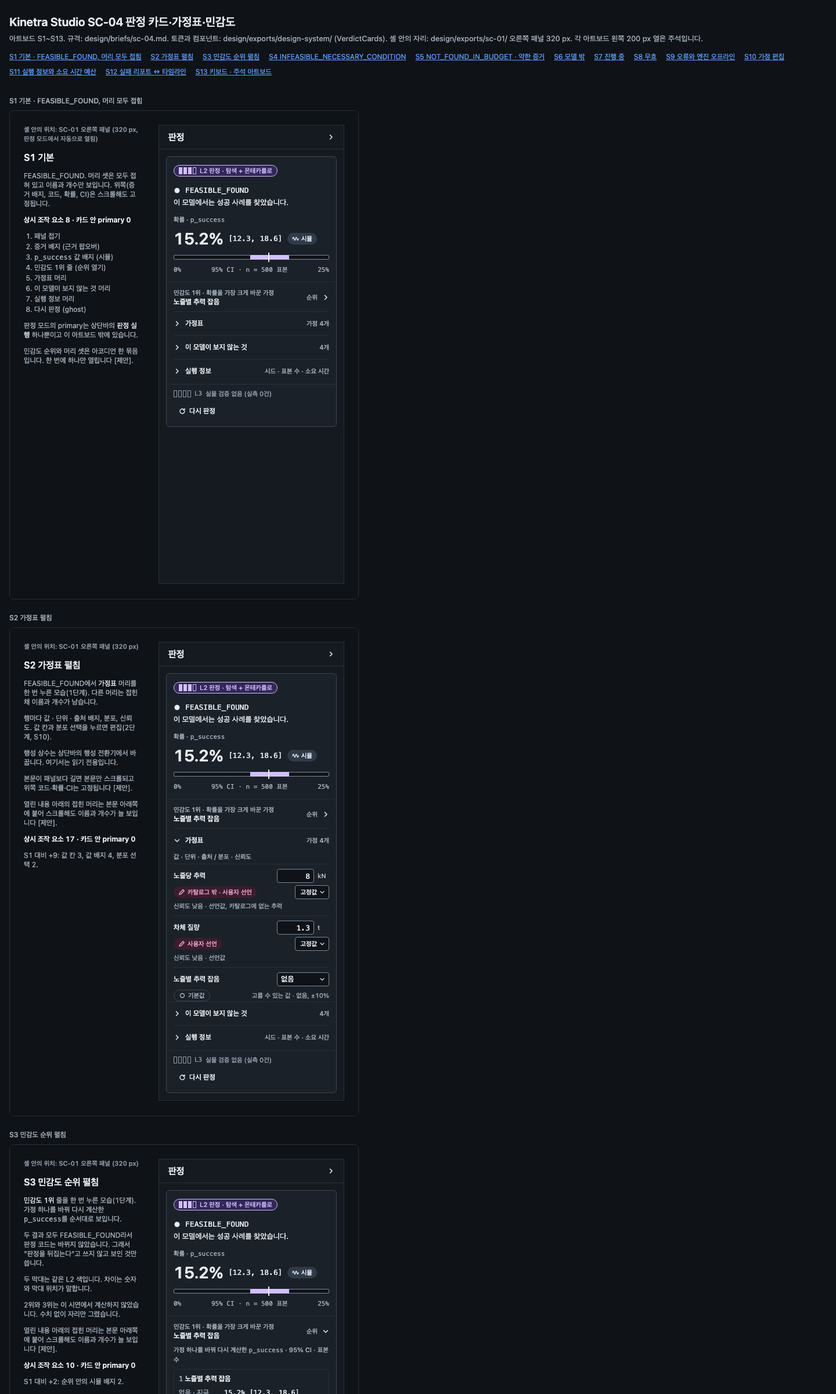
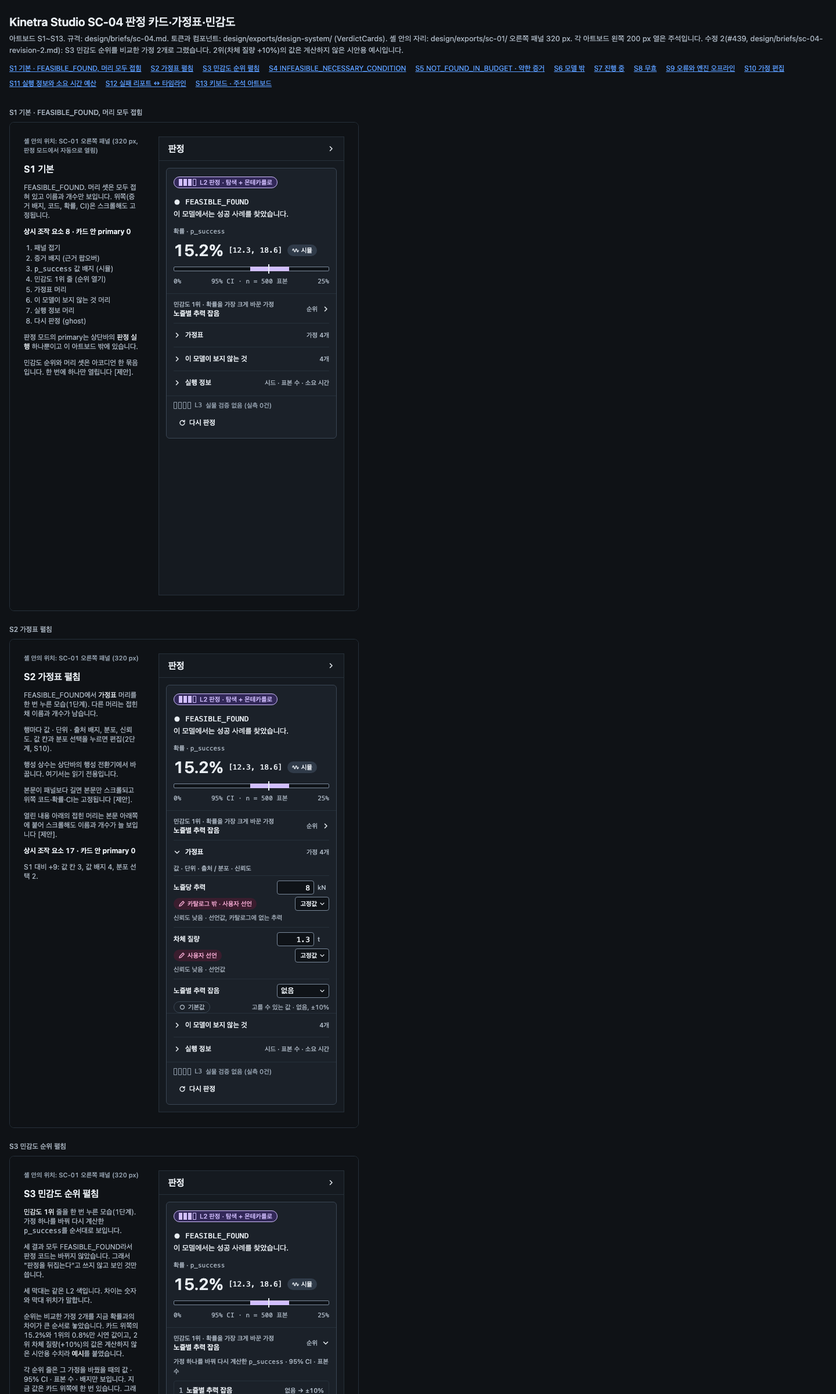
[D0-03d] SC-04 수정 2회 디자인 반영

diff --git a/design/exports/sc-04/index.html b/design/exports/sc-04/index.html
@@ -26,7 +26,7 @@ a{color:#5B9DFF}a:hover{color:#A8CBFF}
 <body>
 <header class="kin-top">
 <h1>Kinetra Studio SC-04 판정 카드·가정표·민감도</h1>
-<p>아트보드 S1~S13. 규격: design/briefs/sc-04.md. 토큰과 컴포넌트: design/exports/design-system/ (VerdictCards). 셸 안의 자리: design/exports/sc-01/ 오른쪽 패널 320 px. 각 아트보드 왼쪽 200 px 열은 주석입니다.</p>
+<p>아트보드 S1~S13. 규격: design/briefs/sc-04.md. 토큰과 컴포넌트: design/exports/design-system/ (VerdictCards). 셸 안의 자리: design/exports/sc-01/ 오른쪽 패널 320 px. 각 아트보드 왼쪽 200 px 열은 주석입니다. 수정 2(#439, design/briefs/sc-04-revision-2.md): S3 민감도 순위를 비교한 가정 2개로 그렸습니다. 2위(차체 질량 +10%)의 값은 계산하지 않은 시안용 예시입니다.</p>
 <nav class="kin-nav" aria-label="아트보드 목차"><a href="#main">S1 기본 · FEASIBLE_FOUND, 머리 모두 접힘</a><a href="#s2">S2 가정표 펼침</a><a href="#s3">S3 민감도 순위 펼침</a><a href="#s4">S4 INFEASIBLE_NECESSARY_CONDITION</a><a href="#s5">S5 NOT_FOUND_IN_BUDGET · 약한 증거</a><a href="#s6">S6 모델 밖</a><a href="#s7">S7 진행 중</a><a href="#s8">S8 무효</a><a href="#s9">S9 오류와 엔진 오프라인</a><a href="#s10">S10 가정 편집</a><a href="#s11">S11 실행 정보와 소요 시간 예산</a><a href="#s12">S12 실패 리포트 ↔ 타임라인</a><a href="#s13">S13 키보드 · 주석 아트보드</a></nav>
 </header>
 <main><section class="kin-board" id="main" aria-label="S1 기본 · FEASIBLE_FOUND, 머리 모두 접힘"><h2 class="kin-board-title">S1 기본 · FEASIBLE_FOUND, 머리 모두 접힘</h2><div class="kin-board-scroll" tabindex="0" role="group" aria-label="S1 기본 · FEASIBLE_FOUND, 머리 모두 접힘 아트보드"><div data-board="Main.dc.html" style="width:600px;height:840px;box-sizing:border-box;padding:24px;background:#0F1216;color:#E8EDF2;font-family:Pretendard,'Pretendard Variable',-apple-system,BlinkMacSystemFont,'Apple SD Gothic Neo','Malgun Gothic','Noto Sans KR',sans-serif;font-size:13px;line-height:20px;font-variant-numeric:tabular-nums;display:flex;gap:32px">
@@ -167,12 +167,13 @@ a{color:#5B9DFF}a:hover{color:#A8CBFF}
 <div style="font-size:11px;font-weight:500;color:#93A0AE">셸 안의 위치: SC-01 오른쪽 패널 (320 px)</div>
 <div style="font-size:16px;line-height:24px;font-weight:600;color:#E8EDF2">S3 민감도 순위 펼침</div>
 <div><span style="color:#E8EDF2">민감도 1위</span> 줄을 한 번 누른 모습(1단계). 가정 하나를 바꿔 다시 계산한 <span style="font-family:'JetBrains Mono',ui-monospace,SFMono-Regular,Menlo,monospace">p_success</span>를 순서대로 보입니다.</div>
-<div>두 결과 모두 FEASIBLE_FOUND라서 판정 코드는 바뀌지 않았습니다. 그래서 "판정을 뒤집는다"고 쓰지 않고 보인 것만 씁니다.</div>
-<div>두 막대는 같은 L2 색입니다. 차이는 숫자와 막대 위치가 말합니다.</div>
-<div>2위와 3위는 이 시연에서 계산하지 않았습니다. 수치 없이 자리만 그렸습니다.</div>
+<div>세 결과 모두 FEASIBLE_FOUND라서 판정 코드는 바뀌지 않았습니다. 그래서 "판정을 뒤집는다"고 쓰지 않고 보인 것만 씁니다.</div>
+<div>세 막대는 같은 L2 색입니다. 차이는 숫자와 막대 위치가 말합니다.</div>
+<div>순위는 비교한 가정 2개를 지금 확률과의 차이가 큰 순서로 놓았습니다. 카드 위쪽의 15.2%와 1위의 0.8%만 시연 값이고, 2위 차체 질량(+10%)의 값은 계산하지 않은 시안용 수치라 <span style="color:#E8EDF2">예시</span>를 붙였습니다.</div>
+<div>각 순위 줄은 그 가정을 바꿨을 때의 값 · 95% CI · 표본 수 · 배지만 보입니다. 지금 값은 카드 위쪽에 한 번 있습니다. 그래서 두 순위가 접힌 머리 위에 함께 보입니다.</div>
 <div>열린 내용 아래의 접힌 머리는 본문 아래쪽에 붙어 스크롤해도 이름과 개수가 늘 보입니다 [제안].</div>
 <div style="color:#E8EDF2;font-weight:600">상시 조작 요소 10 · 카드 안 primary 0</div>
-<div>S1 대비 +2: 순위 안의 시뮬 배지 2.</div>
+<div>S1 대비 +2: 순위 안의 시뮬 배지 2 (1위, 2위).</div>
 </div>
 
 <aside data-screen="1" aria-label="판정" style="flex:none;width:320px;height:790px;box-sizing:border-box;display:flex;flex-direction:column;background:#151A20;border:1px solid #26303A">
@@ -195,24 +196,20 @@ a{color:#5B9DFF}a:hover{color:#A8CBFF}
 <div id="s3-sens" role="region" aria-label="민감도 순위" style="padding:0 4px 8px;display:flex;flex-direction:column;gap:8px">
 <div style="font-size:11px;line-height:16px;font-weight:500;color:#A9B4C0">가정 하나를 바꿔 다시 계산한 <span style="font-family:'JetBrains Mono',ui-monospace,SFMono-Regular,Menlo,monospace">p_success</span> · 95% CI · 표본 수</div>
 <ol style="margin:0;padding:0;list-style:none;display:flex;flex-direction:column;gap:8px">
-<li style="display:flex;flex-direction:column;gap:6px;padding:8px;border:1px solid #26303A;border-radius:4px">
-<div style="font-size:12px;line-height:16px;font-weight:600"><span style="font-family:'JetBrains Mono',ui-monospace,SFMono-Regular,Menlo,monospace;color:#A9B4C0;font-weight:500">1</span> 노즐별 추력 잡음</div>
-<div style="display:flex;flex-direction:column;gap:2px">
-<div style="display:flex;align-items:center;gap:6px;flex-wrap:wrap;font-size:12px"><span style="flex:0 0 72px;color:#A9B4C0">없음 · 지금</span><span style="font-family:'JetBrains Mono',ui-monospace,SFMono-Regular,Menlo,monospace;font-weight:500">15.2% [12.3, 18.6]</span></div>
-<div style="display:flex;align-items:center;gap:6px;padding-left:78px"><span style="font-family:'JetBrains Mono',ui-monospace,SFMono-Regular,Menlo,monospace;font-size:11px;line-height:16px;color:#A9B4C0">n = 500 표본</span><button type="button" data-ctl="값 배지: 잡음 없음" aria-label="값 배지 시뮬. 누르면 근거를 엽니다" style="display:inline-flex;align-items:center;height:24px;padding:0;border:0;background:none;color:#E8EDF2;font-size:11px;line-height:16px;font-weight:500;white-space:nowrap;cursor:pointer"><span style="display:inline-flex;align-items:center;gap:4px;height:20px;box-sizing:border-box;padding:0 8px;border-radius:999px;background:#303B49"><svg width="12" height="12" viewBox="0 0 12 12" fill="none" stroke="currentColor" stroke-width="1.4" stroke-linecap="round" stroke-linejoin="round" aria-hidden="true"><path d="M1 6q1.25-5 2.5 0t2.5 0t2.5 0t2.5 0"/></svg>시뮬</span></button></div>
-<div role="img" aria-label="잡음 없음: 12.3%에서 18.6%, 점 추정 15.2%. 눈금 0%에서 25%" style="position:relative;height:12px"><div style="position:absolute;left:0;right:0;top:3px;height:6px;box-sizing:border-box;background:#0F1318;border:1px solid #7A899B;border-radius:2px"></div><div style="position:absolute;left:49.2%;width:25.2%;top:3px;height:6px;background:#D2BFFF"></div><div style="position:absolute;left:60.8%;top:0;width:2px;height:12px;background:#E8EDF2"></div></div>
-</div>
-<div style="display:flex;flex-direction:column;gap:2px">
-<div style="display:flex;align-items:center;gap:6px;flex-wrap:wrap;font-size:12px"><span style="flex:0 0 72px;color:#A9B4C0">±10%</span><span style="font-family:'JetBrains Mono',ui-monospace,SFMono-Regular,Menlo,monospace;font-weight:500">0.8% [0.3, 2.0]</span></div>
-<div style="display:flex;align-items:center;gap:6px;padding-left:78px"><span style="font-family:'JetBrains Mono',ui-monospace,SFMono-Regular,Menlo,monospace;font-size:11px;line-height:16px;color:#A9B4C0">n = 500 표본</span><button type="button" data-ctl="값 배지: 잡음 ±10%" aria-label="값 배지 시뮬. 누르면 근거를 엽니다" style="display:inline-flex;align-items:center;height:24px;padding:0;border:0;background:none;color:#E8EDF2;font-size:11px;line-height:16px;font-weight:500;white-space:nowrap;cursor:pointer"><span style="display:inline-flex;align-items:center;gap:4px;height:20px;box-sizing:border-box;padding:0 8px;border-radius:999px;background:#303B49"><svg width="12" height="12" viewBox="0 0 12 12" fill="none" stroke="currentColor" stroke-width="1.4" stroke-linecap="round" stroke-linejoin="round" aria-hidden="true"><path d="M1 6q1.25-5 2.5 0t2.5 0t2.5 0t2.5 0"/></svg>시뮬</span></button></div>
-<div role="img" aria-label="잡음 ±10%: 0.3%에서 2.0%, 점 추정 0.8%. 눈금 0%에서 25%" style="position:relative;height:12px"><div style="position:absolute;left:0;right:0;top:3px;height:6px;box-sizing:border-box;background:#0F1318;border:1px solid #7A899B;border-radius:2px"></div><div style="position:absolute;left:1.2%;width:6.8%;top:3px;height:6px;background:#D2BFFF"></div><div style="position:absolute;left:3.2%;top:0;width:2px;height:12px;background:#E8EDF2"></div></div>
-<div style="display:flex;justify-content:space-between;font-family:'JetBrains Mono',ui-monospace,SFMono-Regular,Menlo,monospace;font-size:11px;line-height:16px;color:#A9B4C0"><span>0%</span><span>25%</span></div>
-</div>
-<div style="font-size:12px;line-height:16px">이 시연에서는 가정 하나(노즐별 추력 잡음)가 성공 확률을 크게 바꿉니다. 두 결과 모두 FEASIBLE_FOUND입니다.</div>
+<li style="display:flex;flex-direction:column;gap:4px;padding:8px;border:1px solid #26303A;border-radius:4px">
+<div style="display:flex;align-items:center;gap:6px;font-size:12px;line-height:16px;font-weight:600"><span style="font-family:'JetBrains Mono',ui-monospace,SFMono-Regular,Menlo,monospace;color:#A9B4C0;font-weight:500">1</span><span style="flex:1 1 auto;min-width:0">노즐별 추력 잡음</span><span style="font-size:11px;font-weight:500;color:#A9B4C0">없음 → ±10%</span></div>
+<div style="display:flex;align-items:center;gap:8px;flex-wrap:wrap"><span style="font-family:'JetBrains Mono',ui-monospace,SFMono-Regular,Menlo,monospace;font-weight:500">0.8% [0.3, 2.0]</span><button type="button" data-ctl="값 배지: 잡음 ±10%" aria-label="값 배지 시뮬. 누르면 근거를 엽니다" style="display:inline-flex;align-items:center;height:24px;padding:0;border:0;background:none;color:#E8EDF2;font-size:11px;line-height:16px;font-weight:500;white-space:nowrap;cursor:pointer"><span style="display:inline-flex;align-items:center;gap:4px;height:20px;box-sizing:border-box;padding:0 8px;border-radius:999px;background:#303B49"><svg width="12" height="12" viewBox="0 0 12 12" fill="none" stroke="currentColor" stroke-width="1.4" stroke-linecap="round" stroke-linejoin="round" aria-hidden="true"><path d="M1 6q1.25-5 2.5 0t2.5 0t2.5 0t2.5 0"/></svg>시뮬</span></button></div>
+<div role="img" aria-label="1위 노즐별 추력 잡음 ±10%: 0.3%에서 2.0%, 점 추정 0.8%. 눈금 0%에서 25%" style="position:relative;height:12px"><div style="position:absolute;left:0;right:0;top:3px;height:6px;box-sizing:border-box;background:#0F1318;border:1px solid #7A899B;border-radius:2px"></div><div style="position:absolute;left:1.2%;width:6.8%;top:3px;height:6px;background:#D2BFFF"></div><div style="position:absolute;left:3.2%;top:0;width:2px;height:12px;background:#E8EDF2"></div></div>
+<div style="display:flex;justify-content:space-between;font-family:'JetBrains Mono',ui-monospace,SFMono-Regular,Menlo,monospace;font-size:11px;line-height:16px;color:#A9B4C0"><span>0%</span><span>95% CI · n = 500 표본</span><span>25%</span></div>
 </li>
-<li style="display:flex;align-items:center;gap:6px;padding:0 8px;font-size:12px;line-height:16px;color:#A9B4C0"><span style="font-family:'JetBrains Mono',ui-monospace,SFMono-Regular,Menlo,monospace">2</span>[다음 순위의 가정]<span style="font-size:11px;line-height:16px;color:#93A0AE;border:1px dotted #7A899B;border-radius:2px;padding:0 4px">예시</span></li>
-<li style="display:flex;align-items:center;gap:6px;padding:0 8px;font-size:12px;line-height:16px;color:#A9B4C0"><span style="font-family:'JetBrains Mono',ui-monospace,SFMono-Regular,Menlo,monospace">3</span>[다음 순위의 가정]<span style="font-size:11px;line-height:16px;color:#93A0AE;border:1px dotted #7A899B;border-radius:2px;padding:0 4px">예시</span></li>
+<li style="display:flex;flex-direction:column;gap:4px;padding:8px;border:1px solid #26303A;border-radius:4px">
+<div style="display:flex;align-items:center;gap:6px;font-size:12px;line-height:16px;font-weight:600"><span style="font-family:'JetBrains Mono',ui-monospace,SFMono-Regular,Menlo,monospace;color:#A9B4C0;font-weight:500">2</span><span style="flex:1 1 auto;min-width:0">차체 질량</span><span style="font-size:11px;font-weight:500;color:#A9B4C0">+10%</span><span style="font-size:11px;line-height:16px;font-weight:400;color:#93A0AE;border:1px dotted #7A899B;border-radius:2px;padding:0 4px">예시</span></div>
+<div style="display:flex;align-items:center;gap:8px;flex-wrap:wrap"><span style="font-family:'JetBrains Mono',ui-monospace,SFMono-Regular,Menlo,monospace;font-weight:500">11.4% [8.9, 14.5]</span><button type="button" data-ctl="값 배지: 차체 질량 +10%" aria-label="값 배지 시뮬. 시안용 예시 값입니다. 누르면 근거를 엽니다" style="display:inline-flex;align-items:center;height:24px;padding:0;border:0;background:none;color:#E8EDF2;font-size:11px;line-height:16px;font-weight:500;white-space:nowrap;cursor:pointer"><span style="display:inline-flex;align-items:center;gap:4px;height:20px;box-sizing:border-box;padding:0 8px;border-radius:999px;background:#303B49"><svg width="12" height="12" viewBox="0 0 12 12" fill="none" stroke="currentColor" stroke-width="1.4" stroke-linecap="round" stroke-linejoin="round" aria-hidden="true"><path d="M1 6q1.25-5 2.5 0t2.5 0t2.5 0t2.5 0"/></svg>시뮬</span></button><span style="font-size:11px;line-height:16px;font-weight:400;color:#93A0AE;border:1px dotted #7A899B;border-radius:2px;padding:0 4px">예시</span></div>
+<div role="img" aria-label="2위 차체 질량 +10%, 예시: 8.9%에서 14.5%, 점 추정 11.4%. 눈금 0%에서 25%" style="position:relative;height:12px"><div style="position:absolute;left:0;right:0;top:3px;height:6px;box-sizing:border-box;background:#0F1318;border:1px solid #7A899B;border-radius:2px"></div><div style="position:absolute;left:35.6%;width:22.4%;top:3px;height:6px;background:#D2BFFF"></div><div style="position:absolute;left:45.6%;top:0;width:2px;height:12px;background:#E8EDF2"></div></div>
+<div style="display:flex;justify-content:space-between;font-family:'JetBrains Mono',ui-monospace,SFMono-Regular,Menlo,monospace;font-size:11px;line-height:16px;color:#A9B4C0"><span>0%</span><span>95% CI · n = 500 표본</span><span>25%</span></div>
+</li>
 </ol>
+<div style="font-size:12px;line-height:16px">이 시연에서 비교한 가정은 2개이고, 노즐별 추력 잡음이 성공 확률을 더 크게 바꿉니다. 결과는 모두 FEASIBLE_FOUND입니다. 2위의 값은 계산하지 않은 시안용 예시입니다.</div>
 </div>
 
 <div data-sticky-heads="1" style="position:sticky;bottom:-4px;display:grid;grid-template-columns:minmax(0,1fr);gap:2px;margin:0 -8px;padding:2px 8px 4px;background:#1B2129;border-top:1px solid #26303A">

diff --git a/design/exports/sc-04/source/S3.dc.html b/design/exports/sc-04/source/S3.dc.html
@@ -23,12 +23,13 @@ input::placeholder{color:#93A0AE;opacity:1}
 <div style="font-size:11px;font-weight:500;color:#93A0AE">셸 안의 위치: SC-01 오른쪽 패널 (320 px)</div>
 <div style="font-size:16px;line-height:24px;font-weight:600;color:#E8EDF2">S3 민감도 순위 펼침</div>
 <div><span style="color:#E8EDF2">민감도 1위</span> 줄을 한 번 누른 모습(1단계). 가정 하나를 바꿔 다시 계산한 <span style="font-family:'JetBrains Mono',monospace">p_success</span>를 순서대로 보입니다.</div>
-<div>두 결과 모두 FEASIBLE_FOUND라서 판정 코드는 바뀌지 않았습니다. 그래서 "판정을 뒤집는다"고 쓰지 않고 보인 것만 씁니다.</div>
-<div>두 막대는 같은 L2 색입니다. 차이는 숫자와 막대 위치가 말합니다.</div>
-<div>2위와 3위는 이 시연에서 계산하지 않았습니다. 수치 없이 자리만 그렸습니다.</div>
+<div>세 결과 모두 FEASIBLE_FOUND라서 판정 코드는 바뀌지 않았습니다. 그래서 "판정을 뒤집는다"고 쓰지 않고 보인 것만 씁니다.</div>
+<div>세 막대는 같은 L2 색입니다. 차이는 숫자와 막대 위치가 말합니다.</div>
+<div>순위는 비교한 가정 2개를 지금 확률과의 차이가 큰 순서로 놓았습니다. 카드 위쪽의 15.2%와 1위의 0.8%만 시연 값이고, 2위 차체 질량(+10%)의 값은 계산하지 않은 시안용 수치라 <span style="color:#E8EDF2">예시</span>를 붙였습니다.</div>
+<div>각 순위 줄은 그 가정을 바꿨을 때의 값 · 95% CI · 표본 수 · 배지만 보입니다. 지금 값은 카드 위쪽에 한 번 있습니다. 그래서 두 순위가 접힌 머리 위에 함께 보입니다.</div>
 <div>열린 내용 아래의 접힌 머리는 본문 아래쪽에 붙어 스크롤해도 이름과 개수가 늘 보입니다 [제안].</div>
 <div style="color:#E8EDF2;font-weight:600">상시 조작 요소 10 · 카드 안 primary 0</div>
-<div>S1 대비 +2: 순위 안의 시뮬 배지 2.</div>
+<div>S1 대비 +2: 순위 안의 시뮬 배지 2 (1위, 2위).</div>
 </div>
 
 <aside data-screen="1" aria-label="판정" style="flex:none;width:320px;height:790px;box-sizing:border-box;display:flex;flex-direction:column;background:#151A20;border:1px solid #26303A">
@@ -51,24 +52,20 @@ input::placeholder{color:#93A0AE;opacity:1}
 <div id="s3-sens" role="region" aria-label="민감도 순위" style="padding:0 4px 8px;display:flex;flex-direction:column;gap:8px">
 <div style="font-size:11px;line-height:16px;font-weight:500;color:#A9B4C0">가정 하나를 바꿔 다시 계산한 <span style="font-family:'JetBrains Mono',monospace">p_success</span> · 95% CI · 표본 수</div>
 <ol style="margin:0;padding:0;list-style:none;display:flex;flex-direction:column;gap:8px">
-<li style="display:flex;flex-direction:column;gap:6px;padding:8px;border:1px solid #26303A;border-radius:4px">
-<div style="font-size:12px;line-height:16px;font-weight:600"><span style="font-family:'JetBrains Mono',monospace;color:#A9B4C0;font-weight:500">1</span> 노즐별 추력 잡음</div>
-<div style="display:flex;flex-direction:column;gap:2px">
-<div style="display:flex;align-items:center;gap:6px;flex-wrap:wrap;font-size:12px"><span style="flex:0 0 72px;color:#A9B4C0">없음 · 지금</span><span style="font-family:'JetBrains Mono',monospace;font-weight:500">15.2% [12.3, 18.6]</span></div>
-<div style="display:flex;align-items:center;gap:6px;padding-left:78px"><span style="font-family:'JetBrains Mono',monospace;font-size:11px;line-height:16px;color:#A9B4C0">n = 500 표본</span><button type="button" data-ctl="값 배지: 잡음 없음" aria-label="값 배지 시뮬. 누르면 근거를 엽니다" style="display:inline-flex;align-items:center;height:24px;padding:0;border:0;background:none;color:#E8EDF2;font-size:11px;line-height:16px;font-weight:500;white-space:nowrap;cursor:pointer"><span style="display:inline-flex;align-items:center;gap:4px;height:20px;box-sizing:border-box;padding:0 8px;border-radius:999px;background:#303B49"><svg width="12" height="12" viewBox="0 0 12 12" fill="none" stroke="currentColor" stroke-width="1.4" stroke-linecap="round" stroke-linejoin="round" aria-hidden="true"><path d="M1 6q1.25-5 2.5 0t2.5 0t2.5 0t2.5 0"/></svg>시뮬</span></button></div>
-<div role="img" aria-label="잡음 없음: 12.3%에서 18.6%, 점 추정 15.2%. 눈금 0%에서 25%" style="position:relative;height:12px"><div style="position:absolute;left:0;right:0;top:3px;height:6px;box-sizing:border-box;background:#0F1318;border:1px solid #7A899B;border-radius:2px"></div><div style="position:absolute;left:49.2%;width:25.2%;top:3px;height:6px;background:#D2BFFF"></div><div style="position:absolute;left:60.8%;top:0;width:2px;height:12px;background:#E8EDF2"></div></div>
-</div>
-<div style="display:flex;flex-direction:column;gap:2px">
-<div style="display:flex;align-items:center;gap:6px;flex-wrap:wrap;font-size:12px"><span style="flex:0 0 72px;color:#A9B4C0">±10%</span><span style="font-family:'JetBrains Mono',monospace;font-weight:500">0.8% [0.3, 2.0]</span></div>
-<div style="display:flex;align-items:center;gap:6px;padding-left:78px"><span style="font-family:'JetBrains Mono',monospace;font-size:11px;line-height:16px;color:#A9B4C0">n = 500 표본</span><button type="button" data-ctl="값 배지: 잡음 ±10%" aria-label="값 배지 시뮬. 누르면 근거를 엽니다" style="display:inline-flex;align-items:center;height:24px;padding:0;border:0;background:none;color:#E8EDF2;font-size:11px;line-height:16px;font-weight:500;white-space:nowrap;cursor:pointer"><span style="display:inline-flex;align-items:center;gap:4px;height:20px;box-sizing:border-box;padding:0 8px;border-radius:999px;background:#303B49"><svg width="12" height="12" viewBox="0 0 12 12" fill="none" stroke="currentColor" stroke-width="1.4" stroke-linecap="round" stroke-linejoin="round" aria-hidden="true"><path d="M1 6q1.25-5 2.5 0t2.5 0t2.5 0t2.5 0"/></svg>시뮬</span></button></div>
-<div role="img" aria-label="잡음 ±10%: 0.3%에서 2.0%, 점 추정 0.8%. 눈금 0%에서 25%" style="position:relative;height:12px"><div style="position:absolute;left:0;right:0;top:3px;height:6px;box-sizing:border-box;background:#0F1318;border:1px solid #7A899B;border-radius:2px"></div><div style="position:absolute;left:1.2%;width:6.8%;top:3px;height:6px;background:#D2BFFF"></div><div style="position:absolute;left:3.2%;top:0;width:2px;height:12px;background:#E8EDF2"></div></div>
-<div style="display:flex;justify-content:space-between;font-family:'JetBrains Mono',monospace;font-size:11px;line-height:16px;color:#A9B4C0"><span>0%</span><span>25%</span></div>
-</div>
-<div style="font-size:12px;line-height:16px">이 시연에서는 가정 하나(노즐별 추력 잡음)가 성공 확률을 크게 바꿉니다. 두 결과 모두 FEASIBLE_FOUND입니다.</div>
+<li style="display:flex;flex-direction:column;gap:4px;padding:8px;border:1px solid #26303A;border-radius:4px">
+<div style="display:flex;align-items:center;gap:6px;font-size:12px;line-height:16px;font-weight:600"><span style="font-family:'JetBrains Mono',monospace;color:#A9B4C0;font-weight:500">1</span><span style="flex:1 1 auto;min-width:0">노즐별 추력 잡음</span><span style="font-size:11px;font-weight:500;color:#A9B4C0">없음 → ±10%</span></div>
+<div style="display:flex;align-items:center;gap:8px;flex-wrap:wrap"><span style="font-family:'JetBrains Mono',monospace;font-weight:500">0.8% [0.3, 2.0]</span><button type="button" data-ctl="값 배지: 잡음 ±10%" aria-label="값 배지 시뮬. 누르면 근거를 엽니다" style="display:inline-flex;align-items:center;height:24px;padding:0;border:0;background:none;color:#E8EDF2;font-size:11px;line-height:16px;font-weight:500;white-space:nowrap;cursor:pointer"><span style="display:inline-flex;align-items:center;gap:4px;height:20px;box-sizing:border-box;padding:0 8px;border-radius:999px;background:#303B49"><svg width="12" height="12" viewBox="0 0 12 12" fill="none" stroke="currentColor" stroke-width="1.4" stroke-linecap="round" stroke-linejoin="round" aria-hidden="true"><path d="M1 6q1.25-5 2.5 0t2.5 0t2.5 0t2.5 0"/></svg>시뮬</span></button></div>
+<div role="img" aria-label="1위 노즐별 추력 잡음 ±10%: 0.3%에서 2.0%, 점 추정 0.8%. 눈금 0%에서 25%" style="position:relative;height:12px"><div style="position:absolute;left:0;right:0;top:3px;height:6px;box-sizing:border-box;background:#0F1318;border:1px solid #7A899B;border-radius:2px"></div><div style="position:absolute;left:1.2%;width:6.8%;top:3px;height:6px;background:#D2BFFF"></div><div style="position:absolute;left:3.2%;top:0;width:2px;height:12px;background:#E8EDF2"></div></div>
+<div style="display:flex;justify-content:space-between;font-family:'JetBrains Mono',monospace;font-size:11px;line-height:16px;color:#A9B4C0"><span>0%</span><span>95% CI · n = 500 표본</span><span>25%</span></div>
 </li>
-<li style="display:flex;align-items:center;gap:6px;padding:0 8px;font-size:12px;line-height:16px;color:#A9B4C0"><span style="font-family:'JetBrains Mono',monospace">2</span>[다음 순위의 가정]<span style="font-size:11px;line-height:16px;color:#93A0AE;border:1px dotted #7A899B;border-radius:2px;padding:0 4px">예시</span></li>
-<li style="display:flex;align-items:center;gap:6px;padding:0 8px;font-size:12px;line-height:16px;color:#A9B4C0"><span style="font-family:'JetBrains Mono',monospace">3</span>[다음 순위의 가정]<span style="font-size:11px;line-height:16px;color:#93A0AE;border:1px dotted #7A899B;border-radius:2px;padding:0 4px">예시</span></li>
+<li style="display:flex;flex-direction:column;gap:4px;padding:8px;border:1px solid #26303A;border-radius:4px">
+<div style="display:flex;align-items:center;gap:6px;font-size:12px;line-height:16px;font-weight:600"><span style="font-family:'JetBrains Mono',monospace;color:#A9B4C0;font-weight:500">2</span><span style="flex:1 1 auto;min-width:0">차체 질량</span><span style="font-size:11px;font-weight:500;color:#A9B4C0">+10%</span><span style="font-size:11px;line-height:16px;font-weight:400;color:#93A0AE;border:1px dotted #7A899B;border-radius:2px;padding:0 4px">예시</span></div>
+<div style="display:flex;align-items:center;gap:8px;flex-wrap:wrap"><span style="font-family:'JetBrains Mono',monospace;font-weight:500">11.4% [8.9, 14.5]</span><button type="button" data-ctl="값 배지: 차체 질량 +10%" aria-label="값 배지 시뮬. 시안용 예시 값입니다. 누르면 근거를 엽니다" style="display:inline-flex;align-items:center;height:24px;padding:0;border:0;background:none;color:#E8EDF2;font-size:11px;line-height:16px;font-weight:500;white-space:nowrap;cursor:pointer"><span style="display:inline-flex;align-items:center;gap:4px;height:20px;box-sizing:border-box;padding:0 8px;border-radius:999px;background:#303B49"><svg width="12" height="12" viewBox="0 0 12 12" fill="none" stroke="currentColor" stroke-width="1.4" stroke-linecap="round" stroke-linejoin="round" aria-hidden="true"><path d="M1 6q1.25-5 2.5 0t2.5 0t2.5 0t2.5 0"/></svg>시뮬</span></button><span style="font-size:11px;line-height:16px;font-weight:400;color:#93A0AE;border:1px dotted #7A899B;border-radius:2px;padding:0 4px">예시</span></div>
+<div role="img" aria-label="2위 차체 질량 +10%, 예시: 8.9%에서 14.5%, 점 추정 11.4%. 눈금 0%에서 25%" style="position:relative;height:12px"><div style="position:absolute;left:0;right:0;top:3px;height:6px;box-sizing:border-box;background:#0F1318;border:1px solid #7A899B;border-radius:2px"></div><div style="position:absolute;left:35.6%;width:22.4%;top:3px;height:6px;background:#D2BFFF"></div><div style="position:absolute;left:45.6%;top:0;width:2px;height:12px;background:#E8EDF2"></div></div>
+<div style="display:flex;justify-content:space-between;font-family:'JetBrains Mono',monospace;font-size:11px;line-height:16px;color:#A9B4C0"><span>0%</span><span>95% CI · n = 500 표본</span><span>25%</span></div>
+</li>
 </ol>
+<div style="font-size:12px;line-height:16px">이 시연에서 비교한 가정은 2개이고, 노즐별 추력 잡음이 성공 확률을 더 크게 바꿉니다. 결과는 모두 FEASIBLE_FOUND입니다. 2위의 값은 계산하지 않은 시안용 예시입니다.</div>
 </div>
 
 <div data-sticky-heads="1" style="position:sticky;bottom:-4px;display:grid;grid-template-columns:minmax(0,1fr);gap:2px;margin:0 -8px;padding:2px 8px 4px;background:#1B2129;border-top:1px solid #26303A">

diff --git a/design/exports/sc-04/source/tools/build_export.py b/design/exports/sc-04/source/tools/build_export.py
@@ -180,7 +180,7 @@ a{{color:#5B9DFF}}a:hover{{color:#A8CBFF}}
 <body>
 <header class="kin-top">
 <h1>Kinetra Studio SC-04 판정 카드·가정표·민감도</h1>
-<p>아트보드 S1~S13. 규격: design/briefs/sc-04.md. 토큰과 컴포넌트: design/exports/design-system/ (VerdictCards). 셸 안의 자리: design/exports/sc-01/ 오른쪽 패널 320 px. 각 아트보드 왼쪽 200 px 열은 주석입니다.</p>
+<p>아트보드 S1~S13. 규격: design/briefs/sc-04.md. 토큰과 컴포넌트: design/exports/design-system/ (VerdictCards). 셸 안의 자리: design/exports/sc-01/ 오른쪽 패널 320 px. 각 아트보드 왼쪽 200 px 열은 주석입니다. 수정 2(#439, design/briefs/sc-04-revision-2.md): S3 민감도 순위를 비교한 가정 2개로 그렸습니다. 2위(차체 질량 +10%)의 값은 계산하지 않은 시안용 예시입니다.</p>
 <nav class="kin-nav" aria-label="아트보드 목차">{nav}</nav>
 </header>
 <main>{sections}</main>

diff --git a/design/exports/sc-04/NOTES.md b/design/exports/sc-04/NOTES.md
@@ -1,20 +1,50 @@
-# SC-04 판정 카드·가정표·민감도 내보내기
+# SC-04 판정 카드·가정표·민감도 내보내기 (수정 2)
 
-- 실행 ID: `sc04-20261111T145935`. 날짜 2026-11-11.
+- 실행 ID: `sc04rev2-20261111T170500`. 작업 날짜 2026-11-12. 이전 실행은 `sc04-20261111T145935`(`design/exports/sc-04/`).
+- 수정 지시: `design/briefs/sc-04-revision-2.md`(리뷰 2차, #439). 한 항목만 고쳤다(아래 "이번 수정 2"). 브리프 0절(창업자 지시)과 `design-system.md` 9절 금지 문구는 그대로 적용했다.
 - 규격: `design/briefs/sc-04.md`. 토큰과 컴포넌트: `design/exports/design-system/` (v0, 특히 `VerdictCards`). 셸 안의 자리: `design/exports/sc-01/` 오른쪽 패널(320 px)과 S5의 판정 요약.
-- Claude Design 캔버스: https://claude.ai/artifact/UAAPKfqpPDS2cK7bSUsM43 (제목 "SC-04 판정 카드·가정표·민감도", 비공개. 다른 사람이 보려면 페이지의 Share 메뉴에서 공유해야 한다).
+- Claude Design 캔버스: https://claude.ai/artifact/UAAPKfqpPDS2cK7bSUsM43 (제목 "SC-04 판정 카드·가정표·민감도", 비공개. 다른 사람이 보려면 페이지의 Share 메뉴에서 공유해야 한다). 새 캔버스를 만들지 않고 같은 캔버스를 고쳤다. 고친 판은 **버전 17**(`1794455584-e131`, 라벨 "SC-04 수정 2 #439 민감도 순위").
+- 고치기 전에 캔버스 판 `1794455364-406d`의 파일 14개(아트보드 13개 + `canvas.json`)가 `design/exports/sc-04/source/`와 바이트 단위로 같은지 확인했다(sha256이 `sc-04/DONE.json`과 모두 일치, 손으로 고친 곳 없음). 올린 뒤 캔버스에서 다시 읽어 이 폴더의 `source/` 14개와 바이트 단위로 같은지 확인했다.
 - 상태: 창업자 승인 대기. 이 폴더의 치수와 문구는 브리프의 [제안]을 그린 것이다.
+
+## 이번 수정 2 (#439, `design/briefs/sc-04-revision-2.md`)
+
+**(A)를 했다: 순위 목록을 가정 2개로 그렸다.** (B)로 가지 않았다.
+
+**왜 (A)인가.** 지시는 "(A)를 먼저 시도하고, (A)가 지어낸 수치를 늘려야 하면 (B)"이고, 이번 실행 지시는 "`예시`로 밝힐 수 없는 지어낸 수치가 필요할 때만 (B)"였다. (A)에 새로 필요한 수치는 2위 한 줄(차체 질량 +10%일 때의 `p_success` 11.4% [8.9, 14.5], n = 500 표본)뿐이고, 모두 `design-system.md` 10절 밖의 값이라 `예시`를 붙여 시안용임을 밝힐 수 있다. 실제 물리 상수나 부품 사양처럼 보이는 값은 만들지 않았다(10절 마지막 문단). 1위의 두 값(15.2% [12.3, 18.6], 0.8% [0.3, 2.0], 둘 다 n = 500)은 10절의 시연 값 그대로다. 그래서 S1의 "민감도 1위 · 확률을 가장 크게 바꾼 가정" 라벨과 상시 조작 요소 8개의 이름은 바뀌지 않았다.
+
+### 바뀐 원본 파일
+
+| 파일 | 바뀐 것 |
+|---|---|
+| `source/S3.dc.html` | 민감도 순위 목록과 왼쪽 주석 열. 아래 설명 |
+| `source/tools/build_export.py` | 갤러리 머리 문단에 수정 2 한 문장. 나머지 그대로 |
+| `source/tools/measure.sh` | 새 파일. 헤드리스 Chrome 측정(자기 점검 JSON, S3 순위 줄과 접힌 머리의 위치, S3 스크린샷)을 한 번에 돌린다. 임시 `--user-data-dir`은 `/tmp/kin-sc04rev2-chrome.*`이고 끝나면 지운다 |
+
+나머지 아트보드 12개(Main, S2, S4~S13)와 `canvas.json`은 `design/exports/sc-04/source/`와 바이트가 같다. `index.html`은 같은 원본에서 다시 만들었다.
+
+### S3에서 바뀐 것
+
+- **순위 2개, 줄마다 자기 `p_success`.** 1위 "노즐별 추력 잡음 · 없음 → ±10%": `0.8% [0.3, 2.0]` `시뮬`, 신뢰구간 막대, `0% · 95% CI · n = 500 표본 · 25%`. 2위 "차체 질량 · +10%" `예시`: `11.4% [8.9, 14.5]` `시뮬` `예시`, 같은 막대와 눈금 줄. 값 · CI · 표본 수 · 단위(%, 표본) · 값 배지가 줄마다 있다.
+- **`예시` 표시.** 2위 머리 줄(가정 이름과 바꾼 폭 +10% 옆)과 값 줄(배지 옆)에 `예시` 꼬리표 2개. 목록 아래 문장 "2위의 값은 계산하지 않은 시안용 예시입니다."와 2위 값 배지의 `aria-label`("시안용 예시 값입니다")에도 같은 사실을 적었다. 주석 열에도 "카드 위쪽의 15.2%와 1위의 0.8%만 시연 값"이라고 적었다.
+- **2위 예시 값을 고른 방법.** 10절의 두 신뢰구간은 n = 500에서 95% Wilson 구간과 소수 첫째 자리까지 같다(76/500 → [12.32, 18.61], 4/500 → [0.31, 2.04]). 2위 예시도 같은 방법으로 57/500 = 11.4% → [8.90, 14.48] → `[8.9, 14.5]`로 맞췄다. 값은 지금(15.2%)과 1위(0.8%) 사이에 두어, 지금 확률과의 차이(1위 14.4 %p, 2위 3.8 %p `예시`)로 순위가 서도록 했다. 차체 질량을 늘리면 확률이 내려간다는 방향만 정했고, 크기는 시안용이다 [제안].
+- **3위 자리를 뺐다.** 이전 판의 "[다음 순위의 가정] `예시`" 두 줄(2위·3위)은 수치가 없어, "각 줄에 `p_success`"라는 이번 지시와 맞지 않는다. 2위는 위의 예시 줄로 바꾸고 3위 자리는 지웠다.
+- **순위 줄을 줄였다(배치 변경).** 처음에는 1위 카드를 그대로 두고 2위 카드를 아래에 더했는데, 헤드리스 Chrome으로 재 보니 2위가 y 632~784로 접힌 머리(y 602부터)에 완전히 가려 S3 화면에 보이지 않았다(1위 카드 혼자 386~624로 머리 밑까지 내려옴). 그래서 각 순위 줄을 카드 위쪽 확률 블록과 같은 꼴(값 · CI · 배지 / 막대 / `0% · 95% CI · n = 500 표본 · 25%`)로 줄이고, 1위 카드에 있던 "없음 · 지금 15.2% [12.3, 18.6]" 줄과 그 `시뮬` 배지를 뺐다. 지금 값은 카드 위쪽에 같은 값·CI·표본 수·배지로 이미 있다. 고친 뒤 1위는 y 386~484, 2위는 492~592로 접힌 머리(602~727) 위에 둘 다 보인다.
+- **문장.** 1위 카드 안의 "이 시연에서는 가정 하나(노즐별 추력 잡음)가 성공 확률을 크게 바꿉니다. 두 결과 모두 FEASIBLE_FOUND입니다."는 목록 아래 "이 시연에서 비교한 가정은 2개이고, 노즐별 추력 잡음이 성공 확률을 더 크게 바꿉니다. 결과는 모두 FEASIBLE_FOUND입니다. 2위의 값은 계산하지 않은 시안용 예시입니다."로 바꿨다(스크롤해야 보인다). 주석 열의 "두 결과", "두 막대"는 "세 결과", "세 막대"(카드 위쪽 막대 + 순위 2개)로, "2위와 3위는 … 자리만 그렸습니다"는 2위가 예시라는 문장으로 바꿨다.
+- **조작 요소.** S3는 이전과 같은 **10**이다. 1위의 "잡음 없음" 배지가 빠지고 2위의 "차체 질량 +10%" 배지가 들어왔다(S1 + 순위 안 `시뮬` 배지 2: `값 배지: 잡음 ±10%`, `값 배지: 차체 질량 +10%`). `예시` 꼬리표는 버튼이 아닌 글자다.
+- **바꾸지 않은 것.** S1의 민감도 줄("민감도 1위 · 확률을 가장 크게 바꾼 가정 / 노즐별 추력 잡음 / 순위")과 S2, S7, S8, S9, S11, S13의 같은 줄, S1 상시 조작 요소 8개의 이름과 순서. (B)가 아니므로 `NOTES.md`에 적을 이름 변경은 없다. `FEASIBLE_FOUND`에서 민감도는 S1에서 접히지 않는 한 줄(스크롤 영역 첫 줄, 0단계) 그대로다. 막대 색은 셋 모두 같은 L2 `#D2BFFF`이고 확률에 따라 바뀌지 않는다. 새 색 0.
 
 ## 파일
 
 | 경로 | 내용 |
 |---|---|
-| `index.html` | 독립 갤러리 한 파일(184,603바이트). 아트보드 13장을 이어 붙였다. 외부 요청이 없다(`http`, `<link>`, `<script>`, `url(` 0건). 글꼴 파일은 없고 Pretendard, JetBrains Mono는 설치돼 있을 때만 쓰인다 |
+| `index.html` | 독립 갤러리 한 파일(185,140바이트). 아트보드 13장을 이어 붙였다. 외부 요청이 없다(`http`, `<link>`, `<script>`, `url(` 0건). 글꼴 파일은 없고 Pretendard, JetBrains Mono는 설치돼 있을 때만 쓰인다 |
 | `source/*.dc.html` | 캔버스 아트보드 원본 13개. 캔버스에 올린 파일과 바이트가 같다(`diff -r`로 확인) |
 | `source/canvas.json` | 아트보드 위치, 크기, 제목, 순서 |
+| `source/tools/measure.sh` | 수정 2에서 더한 측정 스크립트. `sh source/tools/measure.sh source <작업 폴더>` |
 | `source/tools/build_export.py` | 내보내기 스크립트. `python3 source/tools/build_export.py source .` → `index.html`. `--measure`는 자기 점검 수치를 내는 `measure.html`, `--board NAME`은 아트보드 한 장짜리 페이지. SC-01 스크립트를 고친 것이다(한 아트보드에 패널 여러 장, 계산된 색 전부 수집, 계산된 채움으로 primary 모양 버튼 세기, 스크롤 영역 안에서 잘린 요소는 넘침에서 뺌) |
 | `NOTES.md` | 이 파일 |
-| `DONE.json` | 완료 표시. 마지막에 썼다 |
+| `DONE.json` | 완료 표시(실행 id `sc04rev2-20261111T170500`). 마지막에 썼다 |
 
 ## 아트보드
 
@@ -24,7 +54,7 @@
 |---|---|---|
 | `Main.dc.html` | S1 | 기본: `FEASIBLE_FOUND`, 머리 모두 접힘 |
 | `S2.dc.html` | S2 | 가정표 펼침(값 칸, 출처 배지, 분포 선택, 신뢰도) |
-| `S3.dc.html` | S3 | 민감도 순위 펼침(15.2% → 0.8%, 같은 L2 색) |
+| `S3.dc.html` | S3 | 민감도 순위 펼침: 1위 노즐별 추력 잡음 0.8%, 2위 차체 질량 11.4% `예시`. 같은 L2 색 (수정 2) |
 | `S4.dc.html` | S4 | `INFEASIBLE_NECESSARY_CONDITION`: 미산출 · 이유, 어긴 필요조건과 여유 |
 | `S5.dc.html` | S5 | `NOT_FOUND_IN_BUDGET`(약한 증거): 쓴 탐색 예산 |
 | `S6.dc.html` | S6 | 모델 밖. "이 모델이 보지 않는 것" 머리를 연 모습도 함께 |
@@ -38,25 +68,25 @@
 
 ## 자기 점검
 
-수치는 `measure.html`을 헤드리스 Chrome으로 열어 잰 것이다. 임시 `--user-data-dir`은 `/tmp/kin-sc04-chrome.*`이고 측정마다 끝나고 지웠다(남은 폴더 0개 확인). 사용자 Chrome 프로필과 실행 중인 Chrome은 건드리지 않았다. 세는 대상에는 `data-ctl`을 붙였고, 표시가 없는 버튼·입력·탭 정지가 남아 있지 않은지도 같이 확인했다(전 아트보드 0건).
+수치는 `measure.html`을 헤드리스 Chrome으로 열어 잰 것이다. 수정 2에서는 `source/tools/measure.sh`로 13장 전부를 다시 쟀다. 임시 `--user-data-dir`은 `/tmp/kin-sc04rev2-chrome.*`(처음 판은 `/tmp/kin-sc04-chrome.*`)이고 측정마다 끝나고 지웠다(남은 폴더 0개 확인). 같은 방법으로 이전 판(`sc-04/source/`)도 재서 비교했다: 바뀐 아트보드는 S3 하나이고 계산된 색 집합은 같다. 사용자 Chrome 프로필과 실행 중인 Chrome은 건드리지 않았다. 세는 대상에는 `data-ctl`을 붙였고, 표시가 없는 버튼·입력·탭 정지가 남아 있지 않은지도 같이 확인했다(전 아트보드 0건).
 
 ### 브리프 0절 표
 
 | 점검 | 결과 |
 |---|---|
-| 상시 조작 요소 수 | S1은 **8**이고 5.1절 이름과 순서가 같다: 패널 접기, 증거 배지, `p_success` 값 배지, 민감도 1위, 가정표 머리, 이 모델이 보지 않는 것 머리, 실행 정보 머리, 다시 판정. 나머지는 아래 표 |
+| 상시 조작 요소 수 | S1은 **8**이고 5.1절 이름과 순서가 같다(수정 2 뒤 `measure.sh`로 다시 잼, `data-ctl` 이름 8개 그대로): 패널 접기, 증거 배지, `p_success` 값 배지, 민감도 1위, 가정표 머리, 이 모델이 보지 않는 것 머리, 실행 정보 머리, 다시 판정. 나머지는 아래 표 |
 | `primary` 버튼 수 | 13장 모두 카드 안 **0**(`data-primary` 0, 계산된 바탕이 `color.accent.primary`인 버튼 0). 상단바를 그린 아트보드는 없다. 판정 모드의 primary는 SC-01 상단바의 `판정 실행` 하나다. 카드 안 행동은 `다시 판정`(유효할 때 ghost, 무효·편집 뒤 secondary), `취소`·`다시 시도`(secondary) |
 | 판정 4종 | 4종 모두 그렸다(S1, S4, S5, S6). 확률·민감도 자리는 아래 표처럼 `design-system.md` 5.1절 그대로 |
-| 정직성 고정 요소 | 카드를 그린 11장(S1~S8, S9b, S11, S13. S7 진행 중 포함) 모두 가정표 머리("가정 4개"), 이 모델이 보지 않는 것 머리("4개"), 카드 하단 `L3 실물 검증 없음 (실측 0건)`이 있다. S9a(오류)도 셋을 남겼다. 열린 내용 아래의 접힌 머리는 스크롤 영역 아래쪽에 붙어 늘 보인다(S2, S3). `FEASIBLE_FOUND`에는 95% CI·표본 수·신뢰구간 막대와 민감도 1위가 있다 |
+| 정직성 고정 요소 | 카드를 그린 11장(S1~S8, S9b, S11, S13. S7 진행 중 포함) 모두 가정표 머리("가정 4개"), 이 모델이 보지 않는 것 머리("4개"), 카드 하단 `L3 실물 검증 없음 (실측 0건)`이 있다. S9a(오류)도 셋을 남겼다. 열린 내용 아래의 접힌 머리는 스크롤 영역 아래쪽에 붙어 늘 보인다(S2, S3). `FEASIBLE_FOUND`에는 95% CI·표본 수·신뢰구간 막대와 민감도 1위가 있다. S3 순위 두 줄도 각각 값·CI·표본 수·배지를 갖는다 |
 | 기능 도달 단계 | 3절 16행 모두 0·1·2단계 안이다. 2 초과 없음. 아래 표 |
 | 단위·배지 | 화면 UI의 수치는 모두 단위와 값 배지가 있다(손으로 검토). 예외로 본 것: 개수 표시("가정 4개", "4개", "실측 0건")와 신뢰구간 막대 눈금(0%, 25%)은 측정값이 아니라 UI 라벨로 보고 배지를 붙이지 않았다 [확인 필요] |
-| 금지 | 계산된 색 24개가 모두 `tokens.css`에 있다(23개 hex + `elevation.3` 그림자 `rgba(0,0,0,0.5)`). 새 색 0. 초록 0. `status.danger`는 S9a 오류 아이콘·글자와 S10 검증 거부에만, `status.warning`은 S9b 엔진 연결 끊김에만 썼다. 신호등·히트맵 0. 확률에 따라 바뀌는 색 0(15.2%와 0.8% 막대 모두 `#D2BFFF`). 금지 문구는 화면 UI에 0건. "불가능"이라는 낱말은 주석 열에 3번 나오는데 모두 "불가능이라 쓰지 않습니다"라는 설명문이다. "판정을 뒤집"도 S3 주석에서 쓰지 않는 이유를 말할 때 한 번 나온다 |
+| 금지 | 계산된 색 24개가 모두 `tokens.css`에 있다(23개 hex + `elevation.3` 그림자 `rgba(0,0,0,0.5)`. 투명 `rgba(0,0,0,0)`은 세지 않음). 수정 2 뒤에도 같은 집합이다. 새 색 0. 초록 0. `status.danger`는 S9a 오류 아이콘·글자와 S10 검증 거부에만, `status.warning`은 S9b 엔진 연결 끊김에만 썼다. 신호등·히트맵 0. 확률에 따라 바뀌는 색 0(15.2%, 0.8%, 11.4% `예시` 막대 모두 `#D2BFFF`). 금지 문구는 화면 UI에 0건. "불가능"이라는 낱말은 주석 열에 3번 나오는데 모두 "불가능이라 쓰지 않습니다"라는 설명문이다. "판정을 뒤집"도 S3 주석에서 쓰지 않는 이유를 말할 때 한 번 나온다 |
 
 ### 판정 4종의 확률·민감도 자리
 
 | 판정 | 아트보드 | 확률 자리 | 민감도 자리 | 판정별 내용 |
 |---|---|---|---|---|
-| `FEASIBLE_FOUND` | S1 | `15.2%` (`type.display`) `[12.3, 18.6]` `시뮬`, 신뢰구간 막대, `95% CI · n = 500 표본` | 민감도 1위: 노즐별 추력 잡음 → 순위(S3) | — |
+| `FEASIBLE_FOUND` | S1 | `15.2%` (`type.display`) `[12.3, 18.6]` `시뮬`, 신뢰구간 막대, `95% CI · n = 500 표본` | 민감도 1위: 노즐별 추력 잡음 → 순위(S3, 가정 2개, 2위 값 `예시`) | — |
 | `INFEASIBLE_NECESSARY_CONDITION` | S4 | 확률 미산출 · 필요조건에서 막혀 몬테카를로를 돌리지 않았습니다 | 민감도 미산출 · 같은 이유 | 필요한 값 4.8 kN `시뮬` `예시` · 쓸 수 있는 값 8.9 N `인용` · 여유 -4791.1 N `시뮬` `예시` |
 | `NOT_FOUND_IN_BUDGET` | S5 | 확률 미산출 · 예산 안에서 성공 사례를 찾지 못했습니다 | 민감도 미산출 · 같은 이유 | 살펴본 후보 200 / 200 개 `시뮬` `예시`, "약한 증거입니다" |
 | 모델 밖 | S6 | 확률 미산출 · 이 모델이 다루지 않는 현상입니다 | 민감도 미산출 · 같은 이유 | 기·빔 같은 비물리 현상 한 줄 `예시` |
@@ -69,7 +99,7 @@
 |---|---|---|---|
 | S1 | **8** | 5.1절 8개 | 0 |
 | S2 | 17 | S1 + 값 칸 3, 값 배지 4, 분포 선택 2 | 0 |
-| S3 | 10 | S1 + 순위 안 `시뮬` 배지 2 | 0 |
+| S3 | 10 | S1 + 순위 안 `시뮬` 배지 2(1위 ±10%, 2위 차체 질량 +10%). 수정 2 전과 수는 같고 1위 "잡음 없음" 배지가 2위 배지로 바뀜 | 0 |
 | S4 | 9 | 접기, 증거 배지, 여유 블록 배지 3, 머리 3, 다시 판정 | 0 |
 | S5 | 7 | 접기, 증거 배지, 예산 배지 1, 머리 3, 다시 판정 | 0 |
 | S6 | 6 | 접기, 증거 배지, 머리 3, 다시 판정 | 0 |
@@ -88,7 +118,7 @@
 | 증거 단계, 판정 코드와 한 줄 | 0 | 카드 위쪽 고정 영역 (S1, S4, S5, S6) |
 | `p_success` + 95% CI + 표본 수 + 신뢰구간 막대 | 0 | 카드 위쪽 (S1) |
 | 민감도 1위 한 줄 | 0 | 스크롤 영역 첫 줄 (S1) |
-| 민감도 순위 전체 | 1 | 민감도 1위 줄 (S3) |
+| 민감도 순위 전체(가정 2개) | 1 | 민감도 1위 줄 (S3) |
 | 가정표(값, 분포, 출처, 신뢰도) 보기 | 1 | 가정표 머리 (S2) |
 | 가정 값 편집 | 2 | 가정표 머리 → 값 칸 (S2, S10) |
 | 가정 분포 편집(고정값 ↔ 분포) | 2 | 가정표 머리 → 분포 선택 (S2) |
@@ -105,7 +135,7 @@
 ### 그 밖에 잰 것
 
 - 패널 320 × 790(S9 두 장은 이름 줄 때문에 320 × 766, S12는 타임라인 아래라 320 × 648).
-- 아트보드 밖으로 넘친 요소 0건. 누르는 영역 24 × 24 px 미만 0건. 스크롤 영역에서 잘린 곳은 S2(본문 614 px 중 432 px 보임)와 S3(516 중 432) 두 곳이고 의도한 것이다: 위쪽 코드·확률·CI는 고정이고 본문만 스크롤된다.
+- 아트보드 밖으로 넘친 요소 0건. 누르는 영역 24 × 24 px 미만 0건. 스크롤 영역에서 잘린 곳은 S2(본문 614 px 중 432 px 보임)와 S3(수정 2 뒤 508 중 432. 순위 두 줄은 접힌 머리 위에 모두 보이고, 목록 아래 한 문장만 스크롤해야 보인다) 두 곳이고 의도한 것이다: 위쪽 코드·확률·CI는 고정이고 본문만 스크롤된다.
 - 글자 대비 최저 5.95:1 (S12), 나머지 6.08:1. 4.5:1 미만 0건.
 - 측정 환경에 Pretendard와 JetBrains Mono가 없어 시스템 글꼴로 쟀다. 실제 글꼴에서는 너비가 조금 다를 수 있다.
 - 첫 측정에서 S2·S3의 접힌 머리가 스크롤 영역 안에서 16 px로 눌리는 버그를 찾아 고쳤다(본문을 flex에서 grid로). 이어 펼친 내용 아래의 머리가 스크롤 밖으로 밀려 이름이 안 보이는 문제를 찾아, 그 머리들을 본문 아래쪽에 붙였다. 위 수치는 고친 뒤의 값이다.
@@ -115,11 +145,11 @@
 
 1. **민감도 라벨.** 디자인 시스템의 필드 이름 "민감도 · 판정을 뒤집는 가정" 대신 "민감도 1위 · 확률을 가장 크게 바꾼 가정"이라고 썼다. 시연의 두 결과가 모두 `FEASIBLE_FOUND`라 판정 코드가 바뀌지 않으므로 브리프 4절("판정을 뒤집는다고 쓰지 않는다")을 따랐다. 판정 코드가 실제로 바뀌는 민감도가 나오면 원래 라벨로 돌릴 수 있다.
 2. **넷째 가정은 "행성 상수 · 지구 · `인용`"** 으로 정했다 [제안]. 10절 예시 값을 지어내지 않으려고 수치 없는 가정을 골랐다. 행성은 상단바 행성 전환기에서 바꾸므로 카드 안에서는 읽기 전용이다.
-3. **민감도 순위 2·3위**는 수치 없이 "[다음 순위의 가정] `예시`" 자리만 그렸다. 시연에서는 노즐별 추력 잡음 하나만 계산했기 때문이다.
+3. **민감도 순위 2위**(수정 2에서 바꿈): 차체 질량 +10% → `p_success` 11.4% [8.9, 14.5], n = 500 표본, `시뮬` `예시`. 시연에서는 노즐별 추력 잡음 하나만 계산했으므로 2위 값과 순위 비교는 시안용 예시다 [제안]. 이전 판의 3위 자리는 지웠다. 위 "이번 수정 2" 참고.
 4. **약한 증거 변형은 증거 배지에만** 적용했다(바탕 없음 + 점선 + "약한 증거"). 디자인 시스템 `VerdictCards`와 같다. 카드 테두리는 실선으로 두고, 점선 카드 테두리는 무효(S8)에만 쓴다.
 5. **접힌 머리를 본문 아래쪽에 붙이기** [제안]: 한 섹션을 열어 본문이 길어져도 아래쪽 머리의 이름과 개수가 보이도록 했다(0절 1번).
 6. **민감도 순위도 아코디언 한 묶음**으로 봤다: 순위, 가정표, 보지 않는 것, 실행 정보 가운데 하나만 열린다 [제안].
-7. **10절 밖의 수치에는 `예시`를 붙였다**: 132 / 500 표본, 42 s, 184 s, 시드 20261110, 2.4 s, 3.1 s, -12 °, -0.4 kN, 200 / 200 개, 4.8 kN, -4791.1 N. 마지막 셋과 시드, 42 s는 디자인 시스템 `VerdictCards`에 이미 나온 예시 값이다.
+7. **10절 밖의 수치에는 `예시`를 붙였다**: 132 / 500 표본, 42 s, 184 s, 시드 20261110, 2.4 s, 3.1 s, -12 °, -0.4 kN, 200 / 200 개, 4.8 kN, -4791.1 N. 마지막 셋과 시드, 42 s는 디자인 시스템 `VerdictCards`에 이미 나온 예시 값이다. 수정 2에서 더한 것: S3 2위의 +10%, 11.4%, [8.9, 14.5], n = 500 표본.
 8. **S9a 오류 카드에는 증거 배지가 없다**(디자인 시스템 `VerdictCards`의 오류 카드와 같다). 판정이 없기 때문이다. 대신 가정표·보지 않는 것·실행 정보 머리와 L3 줄을 남겼다.
 9. **S9b 오래됨 표시** [제안]: 큰 숫자를 `text.secondary`로 내리고, 값 배지는 `시뮬 · 오래됨`(시뮬 채움 + `text.secondary` 점선 테두리)으로 그렸다. 디자인 시스템 Inspector의 오래됨 배지와 세부가 다를 수 있다 [확인 필요].
 10. **S12 배치.** 브리프대로 타임라인 줄 일부를 위에, 패널을 아래에 놓았다. 셸의 실제 위치(패널은 위, 타임라인은 아래)와는 위아래가 반대다. 실패 리포트는 오른쪽 패널에서 판정 카드 대신 열리고 `판정 카드로`(ghost)로 돌아간다 [제안]. 원인 문구("차체 롤 각이 전복 임계를 넘었습니다")와 여유 수치는 `예시`다.

diff --git a/design/exports/sc-04/README.md b/design/exports/sc-04/README.md
@@ -18,6 +18,14 @@
 5. **브리프와 달리 쓴 라벨(시안의 문구 변경):** 민감도 줄 이름을 디자인 시스템의 "민감도 · 판정을 뒤집는 가정" 대신 "민감도 1위 · 확률을 가장 크게 바꾼 가정"으로 썼다. 시연의 두 결과가 모두 `FEASIBLE_FOUND`라 판정 코드가 바뀌지 않기 때문이다(D0-02c 리뷰 지적과 브리프 4절을 따름). 판정 코드가 실제로 바뀌는 민감도가 나오면 원래 라벨로 돌릴 수 있다.
 6. `NOTES.md`가 [제안]·[확인 필요]로 적은 브리프 밖 결정 16건을 함께 봐 달라. 예: 단위·배지 규칙의 예외(개수 표시 "가정 4개", 신뢰구간 막대 눈금은 UI 라벨로 보고 배지 없음), 넷째 가정을 "행성 상수 · 지구 · `인용`"으로 한 것, 예산 이름 빠르게/보통/넉넉히, S12 패널과 타임라인의 위아래가 셸과 반대인 점.
 
+## 수정 2회 (리뷰 반영, #439 코멘트)
+
+수정 지시: `design/briefs/sc-04-revision-2.md`. 같은 artifact(https://claude.ai/artifact/UAAPKfqpPDS2cK7bSUsM43, 버전 17)를 Claude Design(Opus 5.5)으로 이어서 고쳤다. 실행 id `sc04rev2-20261111T170500`, `DONE.json`의 실행 id가 일치한다.
+
+- S3 민감도 순위를 단일 가정이 아니라 두 가정 비교로 고쳤다. 1위는 기존 노즐 추력 노이즈 없음→±10%(`시뮬`, 디자인 시스템 10절 값), 2위는 몸 질량 +10%→`p_success` 11.4% [8.9, 14.5], n=500(`시뮬` `예시`)이다. 3위 자리표시자는 없앴다.
+- 새 수치는 브리프의 선택지 A가 허용한 예시 값이며 `예시` 배지를 달았다. 실제 몬테카를로 실행 결과나 승인된 물리 수치로 읽으면 안 된다.
+- `DONE.json` 기준 S1 조작 요소 8개, S3 10개, 카드 안 `primary` 0, 새 색 0, 최소 대비 5.95, 아트보드 밖 넘침 0이다. 측정은 임시 `--user-data-dir`를 쓴 헤드리스 Chrome에서 했고 프로필은 삭제했다.
+
 ## 비용과 한도 (상태 막대에서 읽은 값)
 
 | 시점 | 세션 비용 | 주간 한도 |
@@ -32,8 +40,8 @@
 
 | 경로 | 내용 |
 |---|---|
-| `index.html` | 독립 갤러리(184603바이트). 아트보드 13장(S1~S13) |
-| `source/*.dc.html`, `source/canvas.json`, `source/tools/build_export.py` | 캔버스 아트보드 원본 13개, 배치 정보, 내보내기 스크립트 |
+| `index.html` | 독립 갤러리(185140바이트, 수정 2회). 아트보드 13장(S1~S13) |
+| `source/*.dc.html`, `source/canvas.json`, `source/tools/` | 캔버스 아트보드 원본 13개, 배치 정보, 갤러리 생성·측정 스크립트 |
 | `NOTES.md`, `DONE.json` | Claude Design 세션이 쓴 노트(자기 점검 표, 판정 4종의 확률·민감도 자리, 기능 단계 표, 브리프 밖 결정)와 완료 표식 |
 | `preview.png` | omp가 찍은 스크린샷(1440×2400) |
 
